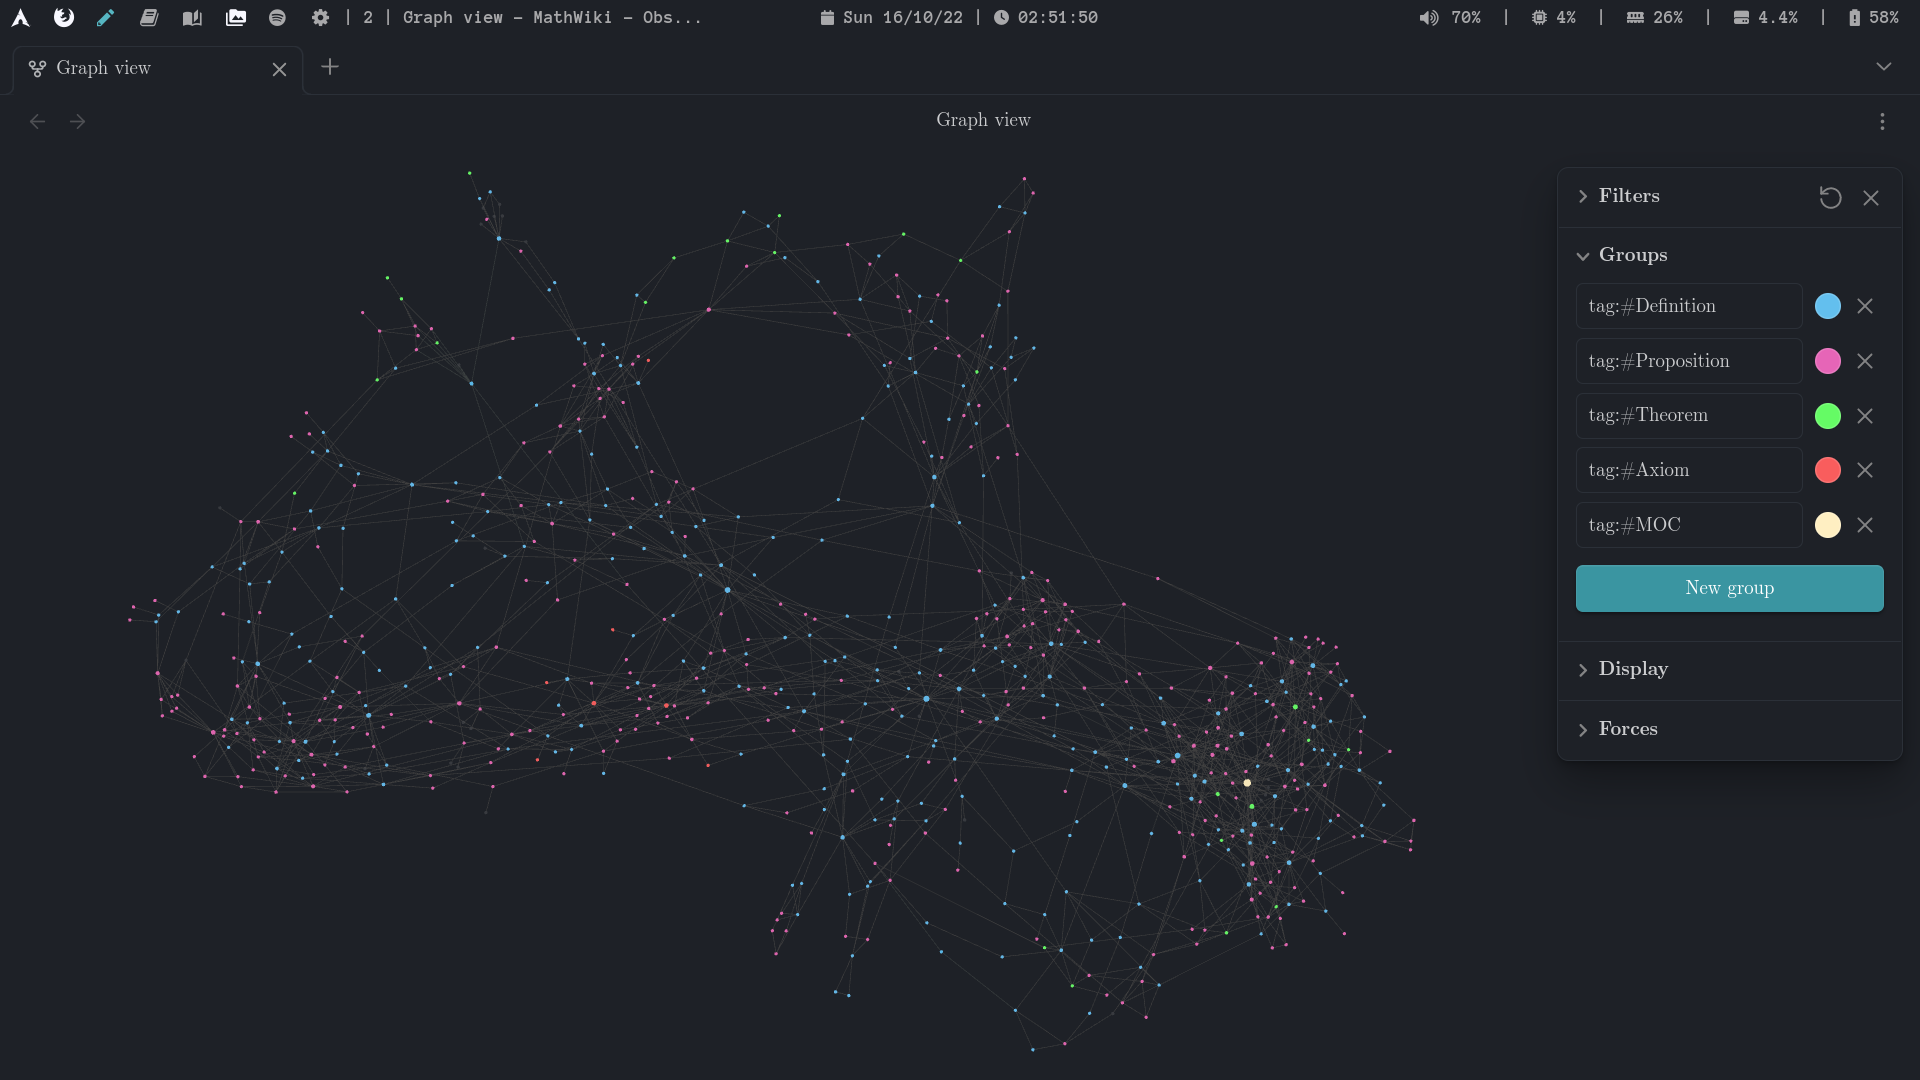
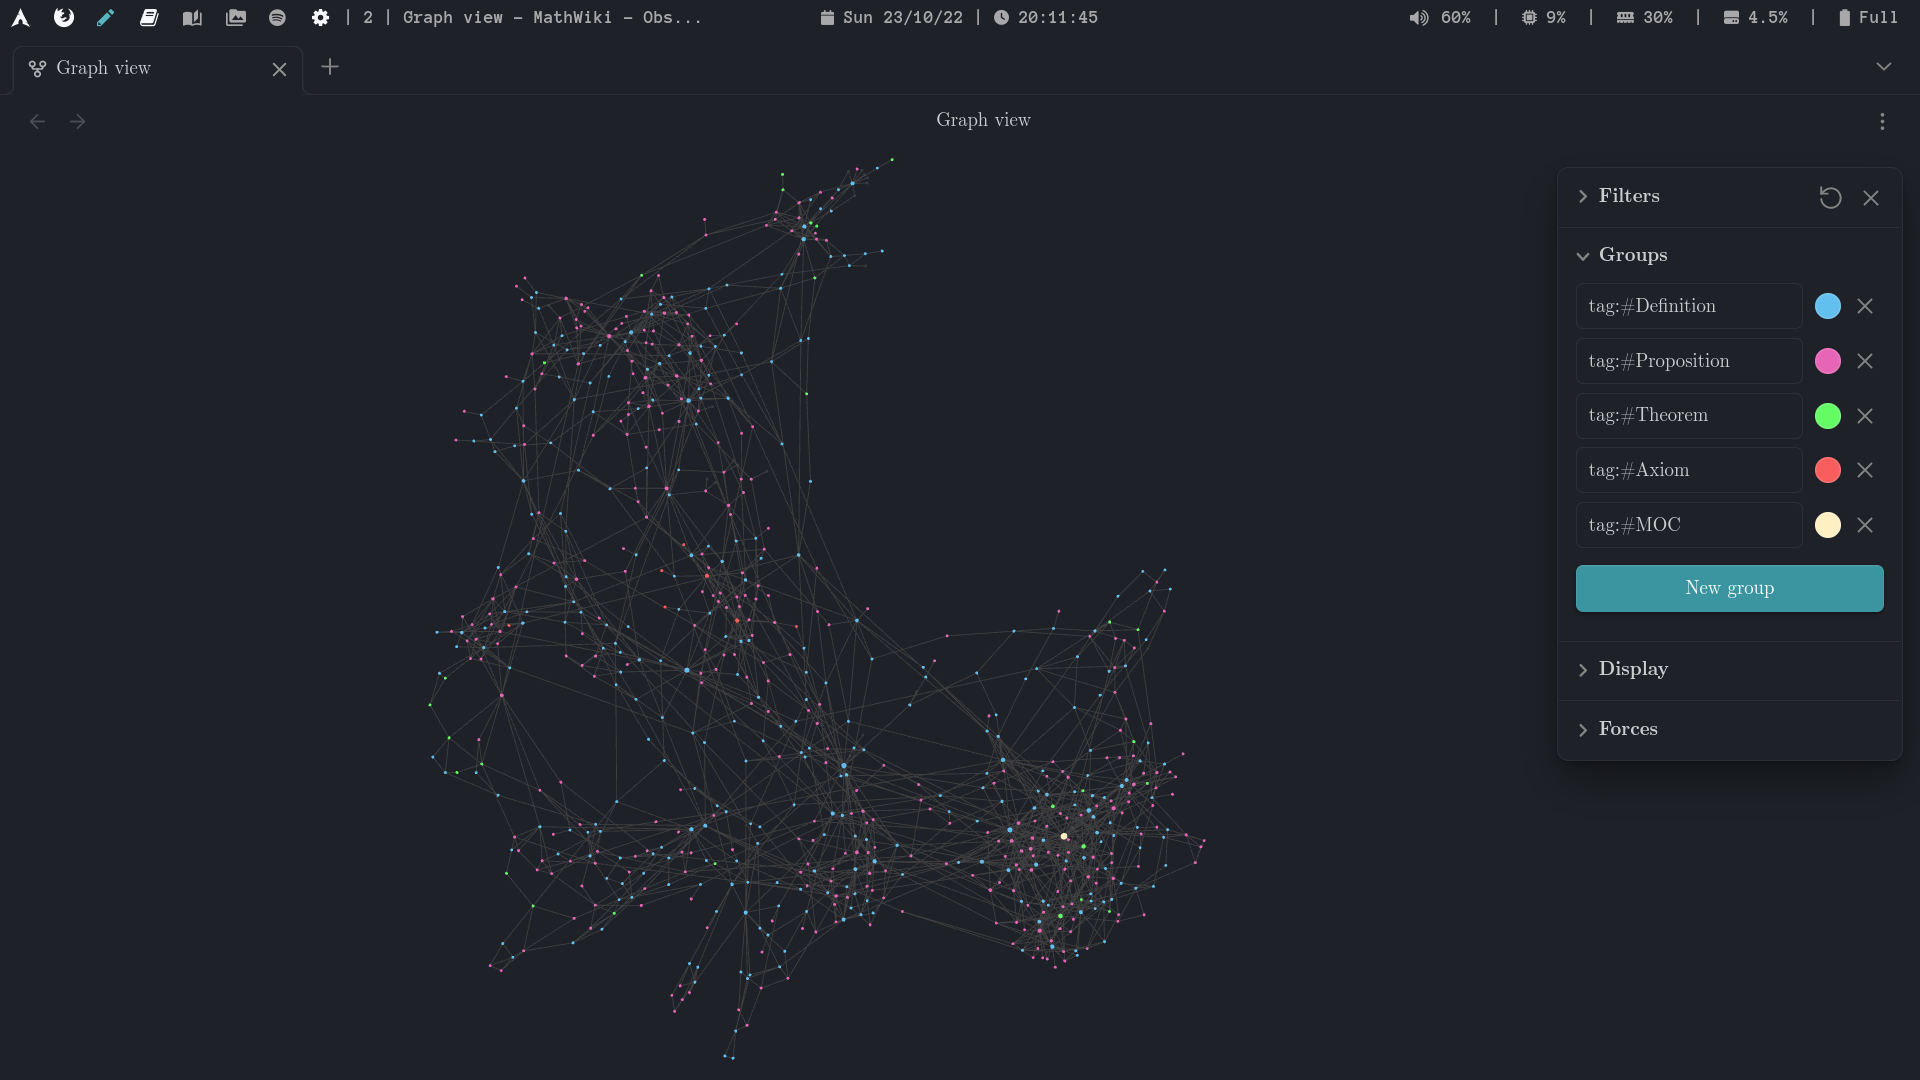
Subsequences and The Bolzano-Weierstrass Theorem

diff --git a/Notes/Basic properties of limits in R.md b/Notes/Basic properties of limits in R.md
@@ -1,3 +1,7 @@
+---
+mathLink: auto
+---
+
 <div class="topSpace"></div>
 
 Date Created: 15/10/2022 20:13:16
@@ -13,14 +17,12 @@ Counterexamples: _Not Applicable_
 ``` ad-Proposition
 title: Proposition.
 
-_Let $K$ denote either $\R$ or $\C$ and let $\tpl{x_n}$ and $\tpl{y_n}$ be sequences in $K$ such that_ $\lim\limits_{n\to\infty}x_n=x$ _and_ $\lim\limits_{n\to\infty}y_n=y$ _for some $x,y\in K$. Then the following properties hold._
-* _(Linearity): For all $\alpha\in K$,_ $\lim\limits_{n\to\infty}\l(\alpha x_n+y_n\r)=\alpha x+y$_._
+_Let $\tpl{x_n}$ and $\tpl{y_n}$ be sequences in $\R$ such that_ $\lim\limits_{n\to\infty}x_n=x$ _and_ $\lim\limits_{n\to\infty}y_n=y$ _for some $x,y\in \R$. Then the following properties hold._
+* _(Linearity): For all $\alpha\in\R$,_ $\lim\limits_{n\to\infty}\l(\alpha x_n+y_n\r)=\alpha x+y$_._
 * _(Multiplicativity):_ $\lim\limits_{n\to\infty}\l(x_n\cdot y_n\r)=x\cdot y$_._
 * _(Invertibility): If $x\neq0$, then_ $\lim\limits_{n\to\infty}\frac{1}{x_n}=\frac{1}{x}$ _where $\fa^\infty n\in\N:x_n\neq0$._
 * _(Respects absolute value):_ $\lim\limits_{n\to\infty}\l|x_n\r|=\l|x\r|$_._
 * _(Respects root): If $\fa^\infty n\in\N x_n\geq0$, then_ $\lim\limits_{n\to\infty}\sqrt{x_n}=\sqrt{x}$_._
-
-_Furthermore, if $K=\R$, then the following order properties hold._
 * _(Respects boundedness): For all $a\in\R$, if $\fa^\infty n\in\N:x_n\geq a$ (resp. $x_n\leq a$), then $x\geq a$ (resp. $x\leq a$)._
 * _(Respects order): If $\fa^\infty n\in\N:x_n\leq y_n$, then $x\leq y$._
 

diff --git a/Notes/Monotone Subsequence Theorem.md b/Notes/Monotone Subsequence Theorem.md
@@ -1,0 +1,27 @@
+<div class="topSpace"></div>
+
+Date Created: 23/10/2022 20:05:35
+Tags: #Theorem #Courses/MATH254
+
+Proved by: _Not Applicable_
+References: _Not Applicable_
+Justifications: _Not Applicable_
+
+Generalizations: _Not Applicable_
+Counterexamples: _Not Applicable_
+
+``` ad-Theorem
+title: Theorem (Monotone Subsequence Theorem).
+
+_Let $\tpl{X,<}$ be a totally ordered set and consider a sequence_ $\tpl{x_n}_{n\in\N}$ _in $X$. Then there exists a monotone subsequence_ $\tpl{x_{n_l}}_{k\in\N}$ _of $\tpl{x_n}$._
+
+```
+
+_Proof_. Call a term $x_m$ in $\tpl{x_n}$ a **peak** if $x_m\geq x_n$ for all $n\geq m$.
+* If $\tpl{x_n}$ contains infinitely-many peaks, say $\tpl{x_{m_k}}_{k\in\N}$, then
+$$\begin{equation}
+    x_{m_1}\geq x_{m_2}\geq\cdots\geq x_{m_{k}}\geq\cdots.
+\end{equation}$$
+Thus $\tpl{x_{m_k}}$ is a monotonically decreasing subsequence of $\tpl{x_n}$.
+
+* If $\tpl{x_n}$ contains finitely-many peaks (perhaps none), let $s_1\coloneqq m_k+1$ be the first index after the last peak. Thus $x_{s_1}$ is not a peak, so there exists some $s_2>s_1$ such tat $x_{s_1}<x_{s_2}$. Similarly, there exists some $s_3>s_2$ such that $x_{s_2}<x_{s_3}$, so we continue this way to obtain a monotonically increasing subsequence $\tpl{x_{s_k}}$ of $\tpl{x_n}$.<span style="float:right;">$\blacksquare$</span>

diff --git a/Notes/Sequence converges implies all subsequences converge.md b/Notes/Sequence converges implies all subsequences converge.md
@@ -1,0 +1,24 @@
+---
+mathLink: $x_n\to x$ $\Rightarrow$ $x_{n_k}\to x$ for all $\tpl{n_k}$
+---
+
+<div class="topSpace"></div>
+
+Date Created: 23/10/2022 16:18:55
+Tags: #Proposition #Courses/MATH254
+
+Proved by: _Not Applicable_
+References: _Not Applicable_
+Justifications: _Not Applicable_
+
+Generalizations: _Not Applicable_
+Counterexamples: _Not Applicable_
+
+``` ad-Proposition
+title: Proposition.
+
+_Let $\tpl{X,\mc{T}}$ be a topological space and let $\tpl{x_n}$ be a sequence in $X$. If $x_n\to x$ for some $x\in X$, then_ $x_{n_k}\to x$ _for all subsequences_ $\tpl{x_{n_k}}$ _of $\tpl{x_n}$._
+
+```
+
+_Proof_. For all $U\in\mc{U}_x$, $x_n\to x$ implies that $\fa^\infty n\in\N:x_n\in U$. But since $n_{k+1}>n_k$ for all $k\in\N$, we see that $\fa^\infty k\in\N:x_{n_k}\in U$ and thus $x_{n_k}\to x$.<span style="float:right;">$\blacksquare$</span>

diff --git a/README.md b/README.md
@@ -70,7 +70,7 @@ I wrote some bash scripts to (try) maintain the consistency of my notes; [main.s
 * Displaying all links that have yet to be created and all notes that have those links, are handled by [ghost.sh](https://github.com/zhaoshenzhai/MathWiki/blob/master/.scripts/ghost.sh).
 * Resetting the modification time of each note to its creation time is handled by [resetModifyTime.sh](https://github.com/zhaoshenzhai/MathWiki/blob/master/.scripts/resetModifyTime.sh).
 
-Some stats: 686 notes, 1634 links, 60 images ([updated](https://github.com/zhaoshenzhai/MathWiki/blob/master/.scripts/stats.sh) every commit).
+Some stats: 695 notes, 1665 links, 60 images ([updated](https://github.com/zhaoshenzhai/MathWiki/blob/master/.scripts/stats.sh) every commit).
 
 ## :symbols: MathLinks
 

diff --git a/Notes/Sequences in R.md b/Notes/Sequences in R.md
@@ -1,0 +1,25 @@
+---
+mathLink: Sequences in $\R$
+---
+
+<div class="topSpace"></div>
+
+Date Created: 29/08/2022 16:52:42
+Tags: #Definition #Courses/MATH254
+
+Types: [[Geometric Sequence]], [[Alternating Sequence]]
+Examples: [[Limit of 1 over linear]], [[Limit of power; base between 0 and 1]], [[Limit of nth root of real]], [[Limit of nth root of n]]
+Constructions: [[Euler's Number]], [[Convergent and Divergent Series]]
+Generalizations: _Not Applicable_
+
+Properties: [[Bolzano-Weierstrass Theorem]], [[Basic properties of limits in R]]
+Sufficiencies: [[Squeeze Theorem]], [[Ratio Test (Sequence)]]
+Equivalences: _Not Applicable_
+Justifications: _Not Applicable_
+
+``` ad-Definition
+title: Definition.
+
+_A **sequence in $\R$** is a sequence $\sigma:\N\to\R$._
+
+```

diff --git a/Notes/Convergent Sequence slash Limit.md b/Notes/Convergent Sequence slash Limit.md
@@ -12,8 +12,8 @@ Examples: [[Limit of 1 over linear]], [[Limit of power; base between 0 and 1]], 
 Constructions: [[Convergent and Divergent Series]]
 Generalizations: _Not Applicable_
 
-Properties: [[Convergent implies bounded]], [[Basic properties of limits]]
-Sufficiencies: [[Monotone Convergence Theorem]], [[Squeeze Theorem]], [[Squeeze Lemma]], [[Ratio Test (Sequence)]]
+Properties: [[Convergent implies bounded]], [[Sequence converges implies all subsequences converge]], [[Basic properties of limits in R]]
+Sufficiencies: [[Monotone Convergence Theorem]], [[Bolzano-Weierstrass Theorem]], [[Squeeze Theorem]], [[Squeezed Distance Lemma]], [[Ratio Test (Sequence)]]
 Equivalences: _Not Applicable_
 Justifications: [[Limit of a sequence is unique (Hausdorff)]]
 

diff --git a/Notes/Bolzano-Weierstrass Theorem.md b/Notes/Bolzano-Weierstrass Theorem.md
@@ -1,0 +1,20 @@
+<div class="topSpace"></div>
+
+Date Created: 23/10/2022 20:52:38
+Tags: #Theorem #Courses/MATH254
+
+Proved by: [[Monotone Subsequence Theorem]], [[Monotone Convergence Theorem]]
+References: _Not Applicable_
+Justifications: _Not Applicable_
+
+Generalizations: _Not Applicable_
+Counterexamples: _Not Applicable_
+
+``` ad-Theorem
+title: Theorem (Bolzano-Weierstrass Theorem).
+
+_Every bounded sequence $\tpl{x_n}$ in $\R$ contains a convergent subsequence._
+
+```
+
+_Proof_. By the Monotone Subsequence Theorem, the sequence $\tpl{x_n}$ has a monotone subsequence $\tpl{x_{n_k}}$. But $\tpl{x_n}$ is bounded, so $\tpl{x_{n_k}}$ is bounded too and hence converges by the Monotone Convergence Theorem.<span style="float:right;">$\blacksquare$</span>

diff --git a/Notes/Subsequences.md b/Notes/Subsequences.md
@@ -1,0 +1,21 @@
+<div class="topSpace"></div>
+
+Date Created: 23/10/2022 16:06:27
+Tags: #Definition #Courses/MATH254
+
+Types: _Not Applicable_
+Examples: [[Monotone Subsequence Theorem]]
+Constructions: _Not Applicable_
+Generalizations: _Not Applicable_
+
+Properties: _Not Applicable_
+Sufficiencies: [[Sequence converges implies all subsequences converge]]
+Equivalences: _Not Applicable_
+Justifications: _Not Applicable_
+
+``` ad-Definition
+title: Definition.
+
+_Let $X$ be a set and let_ $\tpl{x_n}_{n\in\N}$ _be a sequence in $X$. A_ **_subsequence of_ $\tpl{x_n}_{n\in\N}$ _in $X$_** _is a sequence_ $\tpl{x_{n_k}}_{n_k\in I}$_ where $I\coloneqq\l\{n_1,n_2,\dots\r\}$ is infinite and_ $n_k<n_{k+1}$ _for all $k\in\N$._
+
+```

diff --git a/Notes/Euler's Number.md b/Notes/Euler's Number.md
@@ -1,0 +1,28 @@
+---
+mathLink: auto
+---
+
+<div class="topSpace"></div>
+
+Date Created: 23/10/2022 15:55:35
+Tags: #Definition #In_Progress
+
+Types: _Not Applicable_
+Examples: _Not Applicable_
+Constructions: _Not Applicable_
+Generalizations: _Not Applicable_
+
+Properties: _Not Applicable_
+Sufficiencies: _Not Applicable_
+Equivalences: _Not Applicable_
+Justifications: [[Limit converges to Euler's Number]]
+
+``` ad-Definition
+title: Definition (Euler$\textrm{'}$s Number).
+
+_The sequence_ $\tpl{\l(1+\frac{1}{n}\r)^n}_{n\in\N^+}$ _in $\R$ converges to **Euler$\textrm{'}$s Number**_
+$$\begin{equation}
+    e\coloneqq\lim\limits_{n\to\infty}\l(1+\frac{1}{n}\r)^n.
+\end{equation}$$
+
+```

diff --git a/Notes/Sequences in a Topological Space.md b/Notes/Sequences in a Topological Space.md
@@ -1,0 +1,21 @@
+<div class="topSpace"></div>
+
+Date Created: 23/10/2022 19:23:18
+Tags: #Definition #Courses/MATH254 #Later/Topology
+
+Types: [[Sequences in a Metric Space]]
+Examples: _Not Applicable_
+Constructions: [[Convergent Sequence slash Limit]], [[Convergent to Infinity]]
+Generalizations: _Not Applicable_
+
+Properties: _Not Applicable_
+Sufficiencies: _Not Applicable_
+Equivalences: _Not Applicable_
+Justifications: _Not Applicable_
+
+``` ad-Definition
+title: Definition.
+
+_Let $\tpl{X,\mc{T}}$ be a topological space. A **sequence in $X$** is a sequence $\sigma:\N\to X$._
+
+```

diff --git a/Notes/Sequences in an Ordered Space.md b/Notes/Sequences in an Ordered Space.md
@@ -1,0 +1,21 @@
+<div class="topSpace"></div>
+
+Date Created: 23/10/2022 19:24:47
+Tags: #Definition #Courses/MATH254 #Later/Topology
+
+Types: [[Monotone Sequence]]
+Examples: [[Sequences in R]]
+Constructions: [[Convergent to Infinity]]
+Generalizations: _Not Applicable_
+
+Properties: [[Monotone Subsequence Theorem]]
+Sufficiencies: _Not Applicable_
+Equivalences: _Not Applicable_
+Justifications: _Not Applicable_
+
+``` ad-Definition
+title: Definition.
+
+_Let $\tpl{X,<}$ be a totally ordered set. A **sequence in $X$** is a sequence $\sigma:\N\to X$._
+
+```

diff --git a/Notes/Sequences in a Metric Space.md b/Notes/Sequences in a Metric Space.md
@@ -1,0 +1,21 @@
+<div class="topSpace"></div>
+
+Date Created: 23/10/2022 19:26:07
+Tags: #Definition #Courses/MATH254 #Later/Topology
+
+Types: [[Bounded Sequence]]
+Examples: [[Sequences in R]]
+Constructions: _Not Applicable_
+Generalizations: _Not Applicable_
+
+Properties: [[Convergent implies bounded]]
+Sufficiencies: [[Squeezed Distance Lemma]]
+Equivalences: _Not Applicable_
+Justifications: _Not Applicable_
+
+``` ad-Definition
+title: Definition.
+
+_Let $\tpl{X,d}$ be a metric space. A **sequence in $X$** is a sequence $\sigma:\N\to X$._
+
+```
